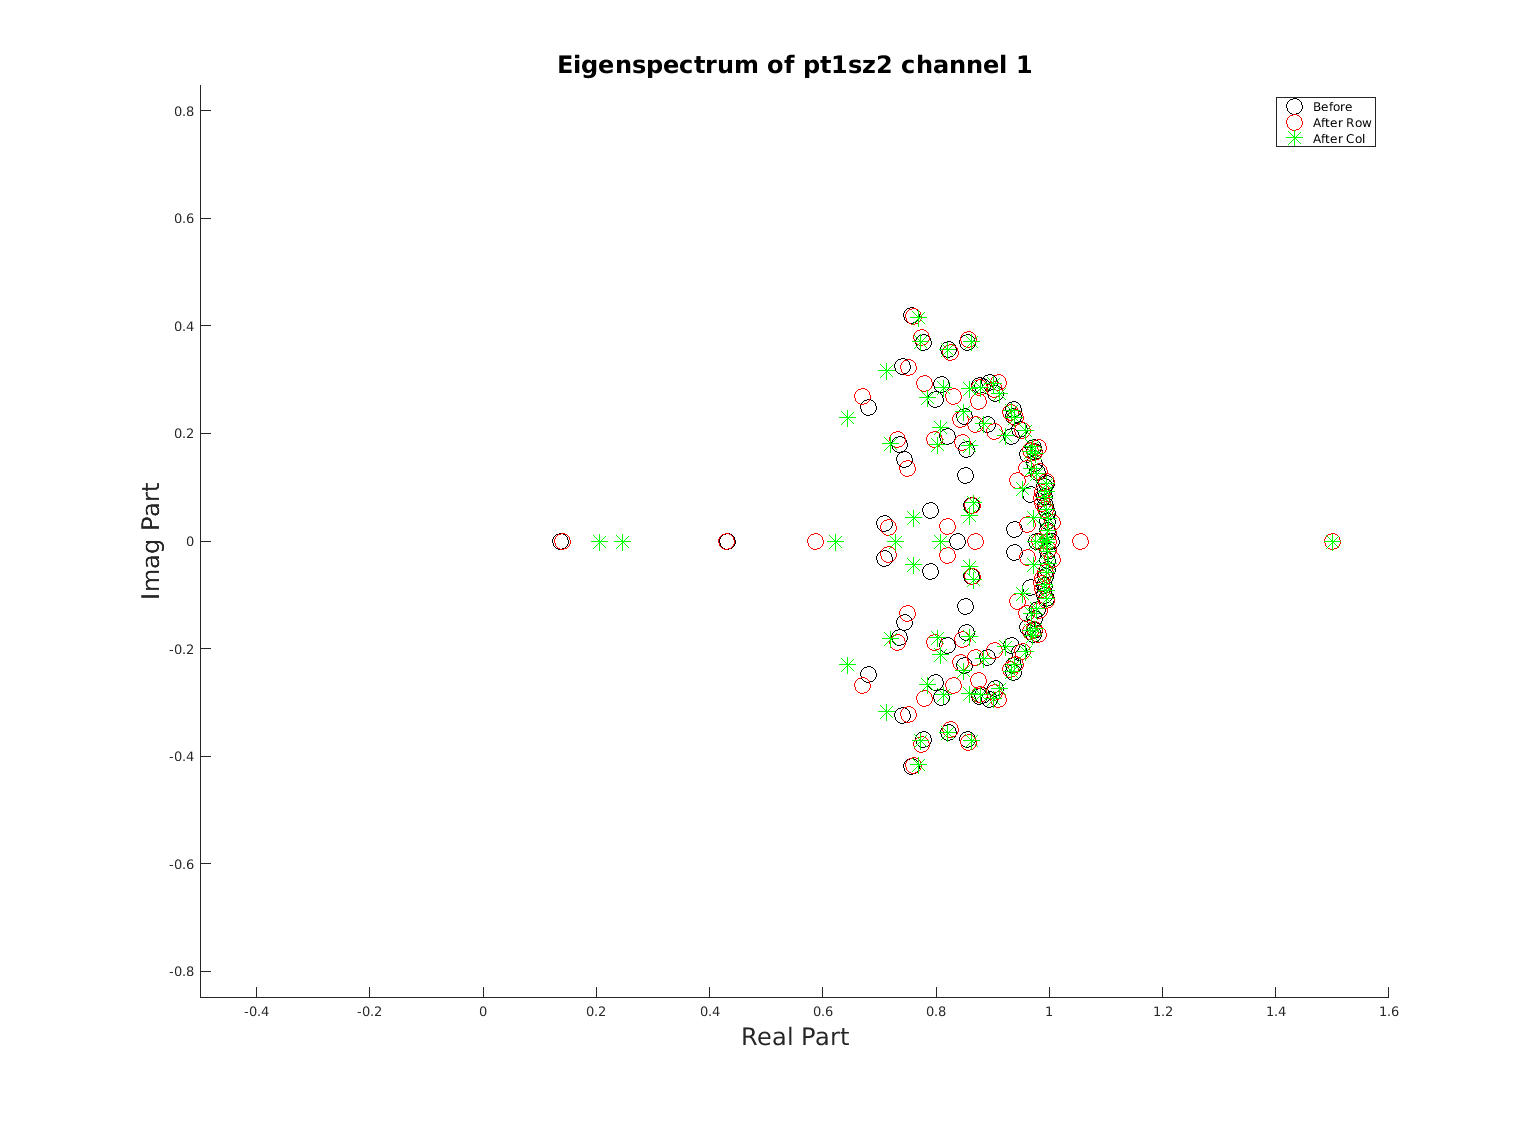
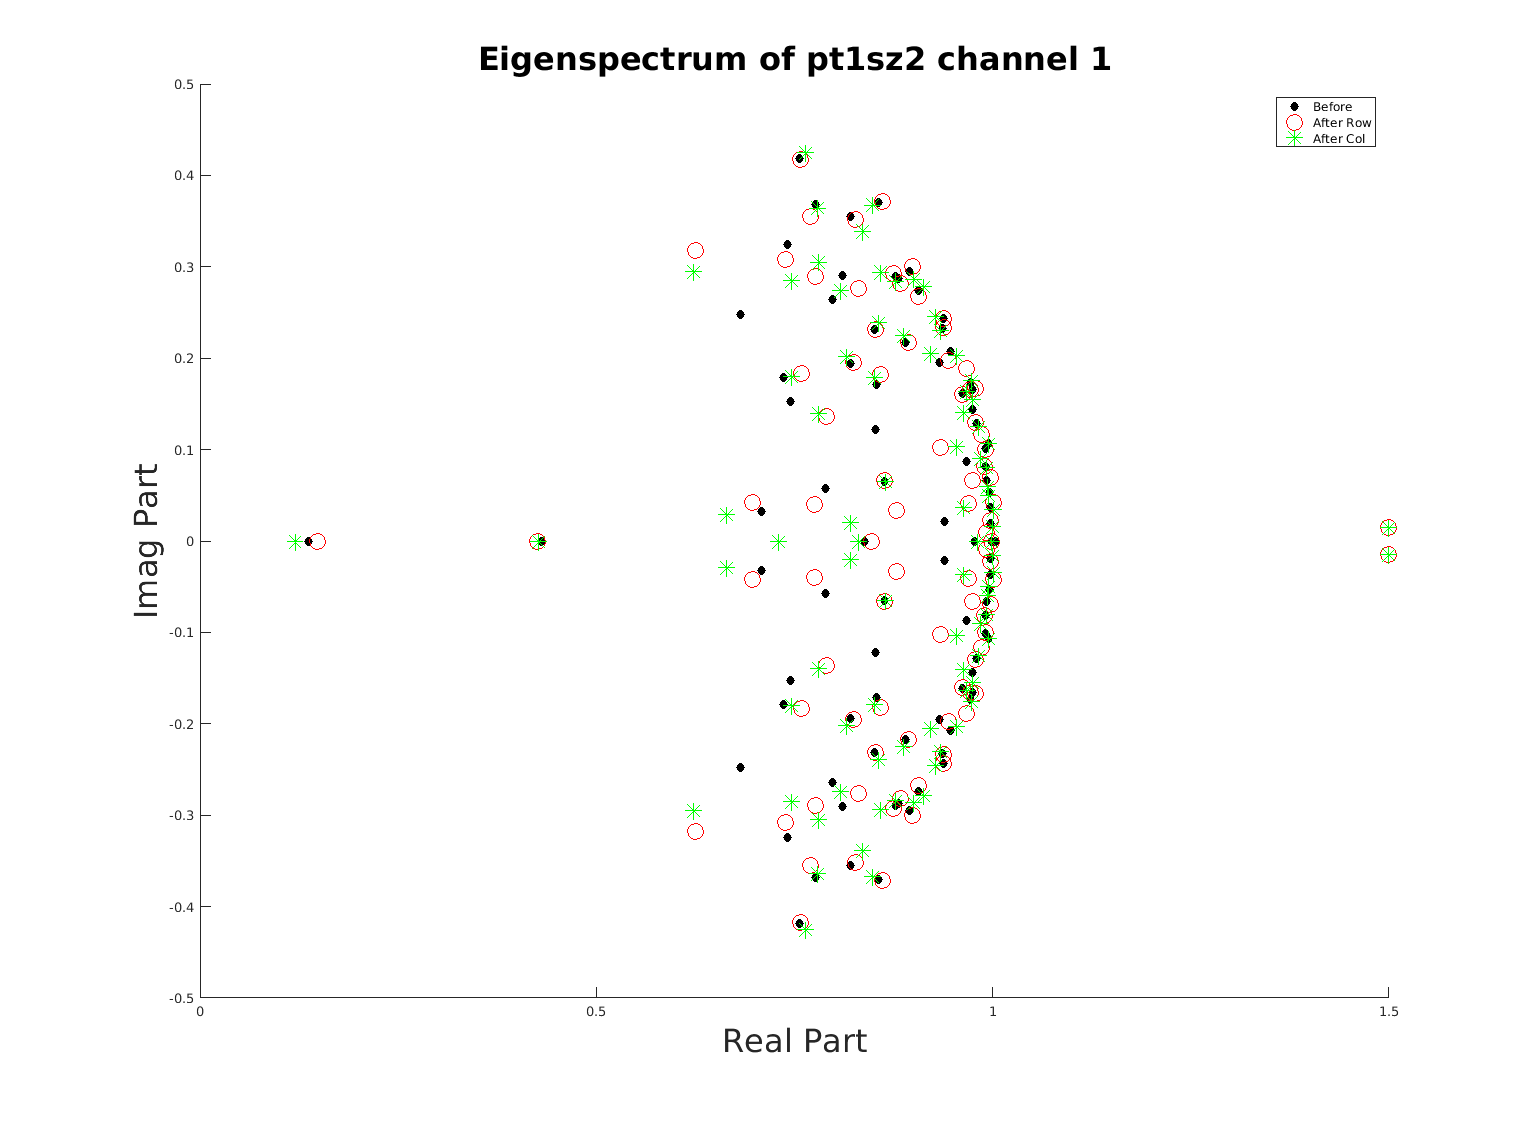
Adding all these figures of no 0 Hz.

diff --git a/fragility_dataanalysis/compareEigenspectrums.m b/fragility_dataanalysis/compareEigenspectrums.m
@@ -43,36 +43,28 @@ exChan = 1;
 FONTSIZE = 18;
 MARKERSIZE = 12;
 
-serverDataDir = './serverdata/fixed_adj_mats_win500_step500_freq1000/';
-adjMatDir = serverDataDir;
-finalRowDataDir = fullfile(serverDataDir, 'R_perturbations_radius1.5/')
-finalColDataDir = fullfile(serverDataDir, 'C_perturbations_radius1.5/')
+serverDataDir = './serverdata/';
+adjMatDir = fullfile(serverDataDir, 'adjmats/win500_step500_freq1000/');
+finalRowDataDir = fullfile(serverDataDir, 'R_perturbations_radius1.5/', 'no0hz_win500_step500_freq1000')
+finalColDataDir = fullfile(serverDataDir, 'C_perturbations_radius1.5/', 'no0hz_win500_step500_freq1000')
 
 %% Output Spectral Map Per Patient
 for iPat=1:length(patients) % loop through each patient
     % load in the fragility data for row and column
     patient = patients{iPat};
-    
-    finalRowDataDir = fullfile(serverDataDir, patient, 'R_perturbations_radius1.5/_newfixedalg')
-    finalColDataDir = fullfile(serverDataDir, patient, 'C_perturbations_radius1.5/_newfixedalg')
-
-    finalRowDataDir = fullfile(serverDataDir, 'R_perturbations_radius1.5/_newfixedalg')
-    finalColDataDir = fullfile(serverDataDir, 'C_perturbations_radius1.5/_newfixedalg')
-
-    
-    
+        
     if ~exist(fullfile(figDir, patient), 'dir')
         mkdir(fullfile(figDir, patient));
     end
     
     % get the perturbation structures
-    patRowFragilityDir = fullfile(finalRowDataDir, strcat(patient, '_Rperturbation_leastsquares_radius1.5.mat'));
+    patRowFragilityDir = fullfile(finalRowDataDir, patient, strcat(patient, '_Rperturbation_leastsquares_radius1.5.mat'));
     finalRowData = load(patRowFragilityDir);
     rowPerturbations = finalRowData.perturbation_struct.del_table;
     
-    patColFragilityDir = fullfile(finalColDataDir, strcat(patient, '_Cperturbation_leastsquares_radius1.5.mat'));
+    patColFragilityDir = fullfile(finalColDataDir, patient, strcat(patient, '_Cperturbation_leastsquares_radius1.5.mat'));
     finalColData = load(patColFragilityDir);
-    colPerturbations = finalColData.perturbation_struct.info.del_table;
+    colPerturbations = finalColData.perturbation_struct.del_table;
     
     % get the adjacency mat strcutures
     adjMatFile = fullfile(adjMatDir, patient, strcat(patient, '_adjmats_leastsquares.mat'));
@@ -92,9 +84,17 @@ for iPat=1:length(patients) % loop through each patient
         ek = [zeros(exChan-1, 1); 1; zeros(numChans-exChan, 1)];
         
         % create perturbation matrices
-        coltemp = del_col'*ek';
-        rowtemp = ek*del_row';
-        
+        try
+            coltemp = del_col'*ek';
+            rowtemp = ek*del_row';
+        catch e
+            disp(e)
+            coltemp = del_col*ek';
+            rowtemp = ek*del_row';
+            
+            figure; imagesc(coltemp)
+            figure; imagesc(rowtemp)
+        end
         evals = eig(adjMat);
         test = adjMat + rowtemp;
         rowPertEVals = eig(test);
@@ -114,11 +114,11 @@ for iPat=1:length(patients) % loop through each patient
         title(['Eigenspectrum of ', patient, ' channel ', num2str(exChan)], 'FontSize', FONTSIZE+6);
         legend('Before', 'After Row', 'After Col');
 %         legend('Before', 'After Perturbation');
-        xlim([-0.5 1.6]);
-        ylim([-0.85 0.85]);
+%         xlim([-0.5 1.6]);
+%         ylim([-0.85 0.85]);
         
-        xlim([0 1.5])
-        ylim([-0.5 0.5]);
+%         xlim([0 1.5])
+%         ylim([-0.5 0.5]);
         currfig = gcf;
         currfig.Position = [1666 1 1535 1121];
         currfig.PaperPosition = [ -3.7448   -0.3385   15.9896   11.6771];

diff --git a/fragility_dataanalysis/runPlotsAndDOA.m b/fragility_dataanalysis/runPlotsAndDOA.m
@@ -1,14 +1,14 @@
 % function runPlotsAndDOA(frequency_sampling, winSize, stepSize, radius)
 % settings to run
 patients = {,...,
-%      'pt1aw1','pt1aw2', ...
-%     'pt1aslp1', 'pt1aslp2', ...
-%     'pt2aw1', 'pt2aw2', ...
-%     'pt2aslp1', 'pt2aslp2', ...
-%     'pt3aw1', ...
-%     'pt3aslp1', 'pt3aslp2', ...
-%     'pt1sz2', 'pt1sz3', 'pt1sz4',...
-%     'pt2sz1' 'pt2sz3' 'pt2sz4', ...
+     'pt1aw1','pt1aw2', ...
+    'pt1aslp1', 'pt1aslp2', ...
+    'pt2aw1', 'pt2aw2', ...
+    'pt2aslp1', 'pt2aslp2', ...
+    'pt3aw1', ...
+    'pt3aslp1', 'pt3aslp2', ...
+    'pt1sz2', 'pt1sz3', 'pt1sz4',...
+    'pt2sz1' 'pt2sz3' 'pt2sz4', ...
     'pt3sz2' 'pt3sz4', ...
     'pt6sz3', 'pt6sz4', 'pt6sz5',...
 %     'pt8sz1' 'pt8sz2' 'pt8sz3',...
@@ -27,9 +27,9 @@ patients = {,...,
 %     'JH107sz6' 'JH107sz7' 'JH107sz8' 'JH107sz9',...
 %    'JH108sz1', 'JH108sz2', 'JH108sz3', 'JH108sz4', 'JH108sz5', 'JH108sz6', 'JH108sz7',...
 %    'EZT037seiz001', 'EZT037seiz002',...
-   'EZT019seiz001', 'EZT019seiz002',...
-   'EZT005seiz001', 'EZT005seiz002', 'EZT007seiz001', 'EZT007seiz002', ...
-   	'EZT070seiz001', 'EZT070seiz002', ...
+%    'EZT019seiz001', 'EZT019seiz002',...
+%    'EZT005seiz001', 'EZT005seiz002', 'EZT007seiz001', 'EZT007seiz002', ...
+%    	'EZT070seiz001', 'EZT070seiz002', ...
     };
 
 close all;
@@ -95,6 +95,10 @@ end
     % directory that computed perturbation structs are saved
     finalDataDir = fullfile(serverDir, strcat(perturbationType, '_perturbations', ...
             '_radius', num2str(radius)), patient);
+        
+    % directory that computed perturbation structs without 0 Hz inside
+    finalDataDir = fullfile(serverDir, strcat(perturbationType, '_perturbations', ...
+            '_radius', num2str(radius)), 'no0hz_win500_step500_freq1000', patient);
         
     try
         final_data = load(fullfile(finalDataDir, strcat(patient, ...
@@ -169,6 +173,10 @@ end
         finalDataDir = fullfile(serverDir, strcat(perturbationType, '_perturbations', ...
             '_radius', num2str(radius)), patient);
         
+            % directory that computed perturbation structs without 0 Hz inside
+        finalDataDir = fullfile(serverDir, strcat(perturbationType, '_perturbations', ...
+            '_radius', num2str(radius)), 'no0hz_win500_step500_freq1000', patient);
+        
         try
             final_data = load(fullfile(finalDataDir, strcat(patient, ...
                 '_', perturbationType, 'perturbation_', lower(TYPE_CONNECTIVITY), '.mat')));
@@ -241,7 +249,7 @@ end
 %                 PLOTARGS.seizureIndex = seizureIndex;
 %                 PLOTARGS.seizureEnd = seizureEndIndex;
 %                 PLOTARGS.seizureEnd = seizureIndex;
-                PLOTARGS.toSaveFigFile = fullfile(toSaveFigDir, strcat(patient, '_minPerturbation_alldata'));
+                PLOTARGS.toSaveFigFile = fullfile(toSaveFigDir, strcat(patient, '_minPerturbation_no0hz'));
             else % only plot window of data
                 postWindow = 10;
                 preWindow = 60;
@@ -261,7 +269,7 @@ end
         plotMinimumPerturbation(minPerturb_time_chan, clinicalIndices, timeStart, timeEnd, PLOTARGS);
         
         if PLOTALL
-            PLOTARGS.toSaveFigFile = fullfile(toSaveFigDir, strcat(patient, '_fragilityMetric_alldata'));
+            PLOTARGS.toSaveFigFile = fullfile(toSaveFigDir, strcat(patient, '_fragilityMetric_no0hz'));
         else
             PLOTARGS.toSaveFigFile = fullfile(toSaveFigDir, strcat(patient, '_fragilityMetric'));
         end

diff --git a/fragility_dataanalysis/runSpectralComputation.m b/fragility_dataanalysis/runSpectralComputation.m
@@ -25,7 +25,7 @@ patients = {,...
 % 	'JH106sz1' 'JH106sz2' 'JH106sz3' 'JH106sz4' 'JH106sz5' 'JH106sz6',...
 % 	'JH107sz1' 'JH107sz2' 'JH107sz3' 'JH107sz4' 'JH107sz5' 'JH107sz6' 'JH107sz7' 'JH107sz8' 'JH107sz8',...
 'pt8sz1' 'pt8sz2' 'pt8sz3',...
-    'pt10sz1' 'pt10sz2' 'pt10sz3', ...
+    'pt10sz1' 'pt10sz2' 'pt1git0sz3', ...
     'pt11sz1' 'pt11sz2' 'pt11sz3' 'pt11sz4', ...
     'pt14sz1' 'pt14sz2' 'pt14sz3' 'pt15sz1' 'pt15sz2' 'pt15sz3' 'pt15sz4',...
     'pt16sz1' 'pt16sz2' 'pt16sz3',...
